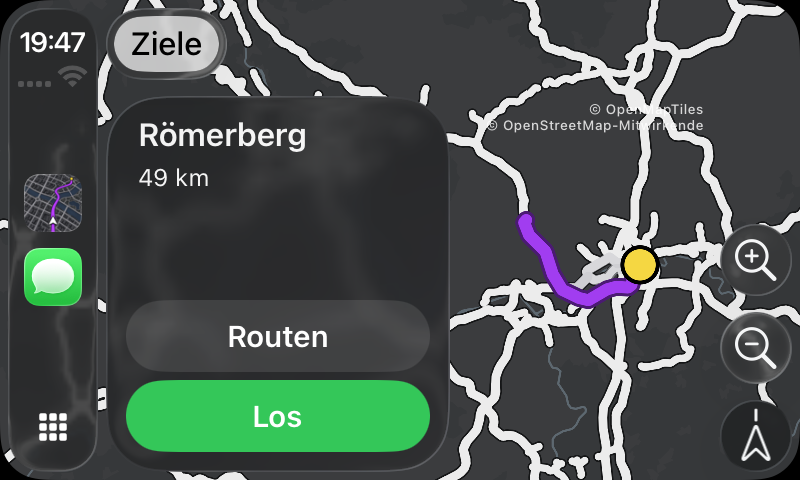
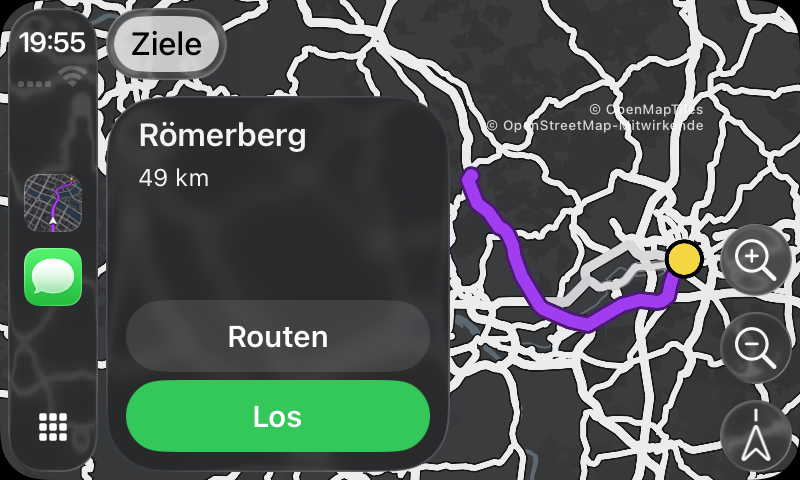
GM-027: Changelog, Screenshots

diff --git a/CHANGELOG.md b/CHANGELOG.md
@@ -2,6 +2,23 @@
 
 Neue Einträge oben. Nummernreihe: `GM-xxx`.
 
+## GM-027 – Screenshot-Durchsicht: CarPlay-Vorschau, Hinweistext, (i), ruhigere Übersicht
+
+**Ziel:** Alle Screenshots durchsehen und gefundene Fehler beheben.
+
+**Dateien:** `App/{CarPlaySceneDelegate,FollowCamera,NeonMapView,ContentView}.swift`, `tools/maplibre/build_style.py`, `App/MapStyles/style-neon-city.json`, `docs/store/*`
+
+**Geändert:**
+- CarPlay-Vorschau: Kamera vor dem Einpassen stoppen (überschrieb den Ausschnitt), Strecke rechts neben dem iOS-Fenster, passende Ränder für das ~400 pt breite Fenster
+- CarPlay: OSM-Hinweis oben rechts, zweizeilig, nie unter den iOS-Fenstern; kein GPS-Punkt und kein (i) von MapLibre; Tempolimit links neben den Kartenknöpfen
+- iPhone: (i)-Knopf ganz aus (ragte in Such- und Vorschau-Leiste), Startkarte Zoom 15 statt 13, Routen-Vorschau mit mehr Rand
+- Karte: kleine Straßen erst ab Zoomstufe (Nebenstraßen 12, Zufahrten 14) – die Übersicht war eine weiße Fläche
+- Hinweis: grauer Punkt in der CarPlay-Navigation ist ein Teich (Wasser), kein Fehler
+
+**Tatsächlich geprüft:** `mac_check.sh`: BUILD SUCCEEDED (signiert + unsigniert), 27/27 Tests; alle 5 iPhone- und 3 CarPlay-Bilder angesehen.
+
+**Ungetestet:** Auf echtem iPhone/Auto noch nicht gefahren. Zwei Prüfläufe überschnitten sich zwischendurch auf dem Mac (Fehlermeldung „EzMaps.xcodeproj does not exist“) – das lag an parallel laufenden Läufen, nicht am Code.
+
 ## GM-026 – Straßennamen und Kartensymbole wie Vorlage, Neon-Pfeil V2 von Codex
 
 **Ziel:** Straßennamen auch in der Fahrt sichtbar, weiße Symbole wie im Foto, neuer Pfeil.
